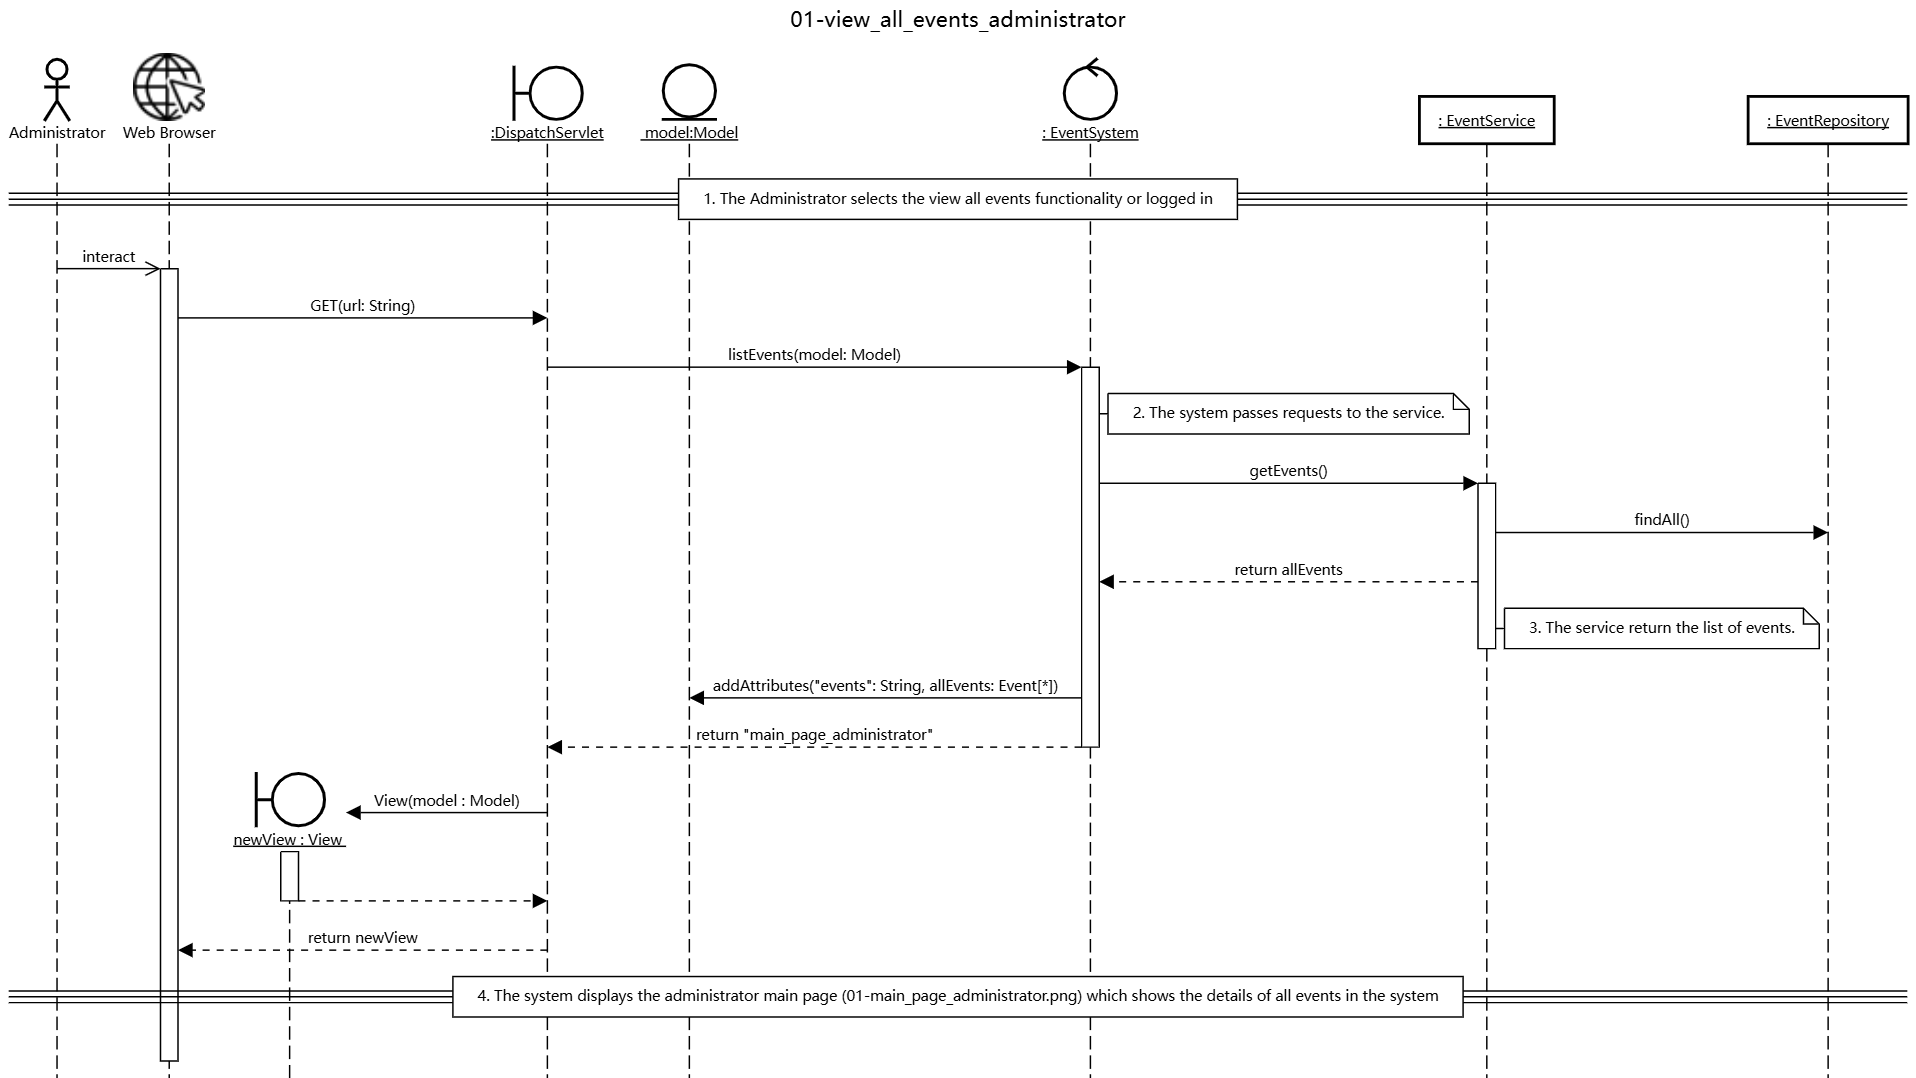
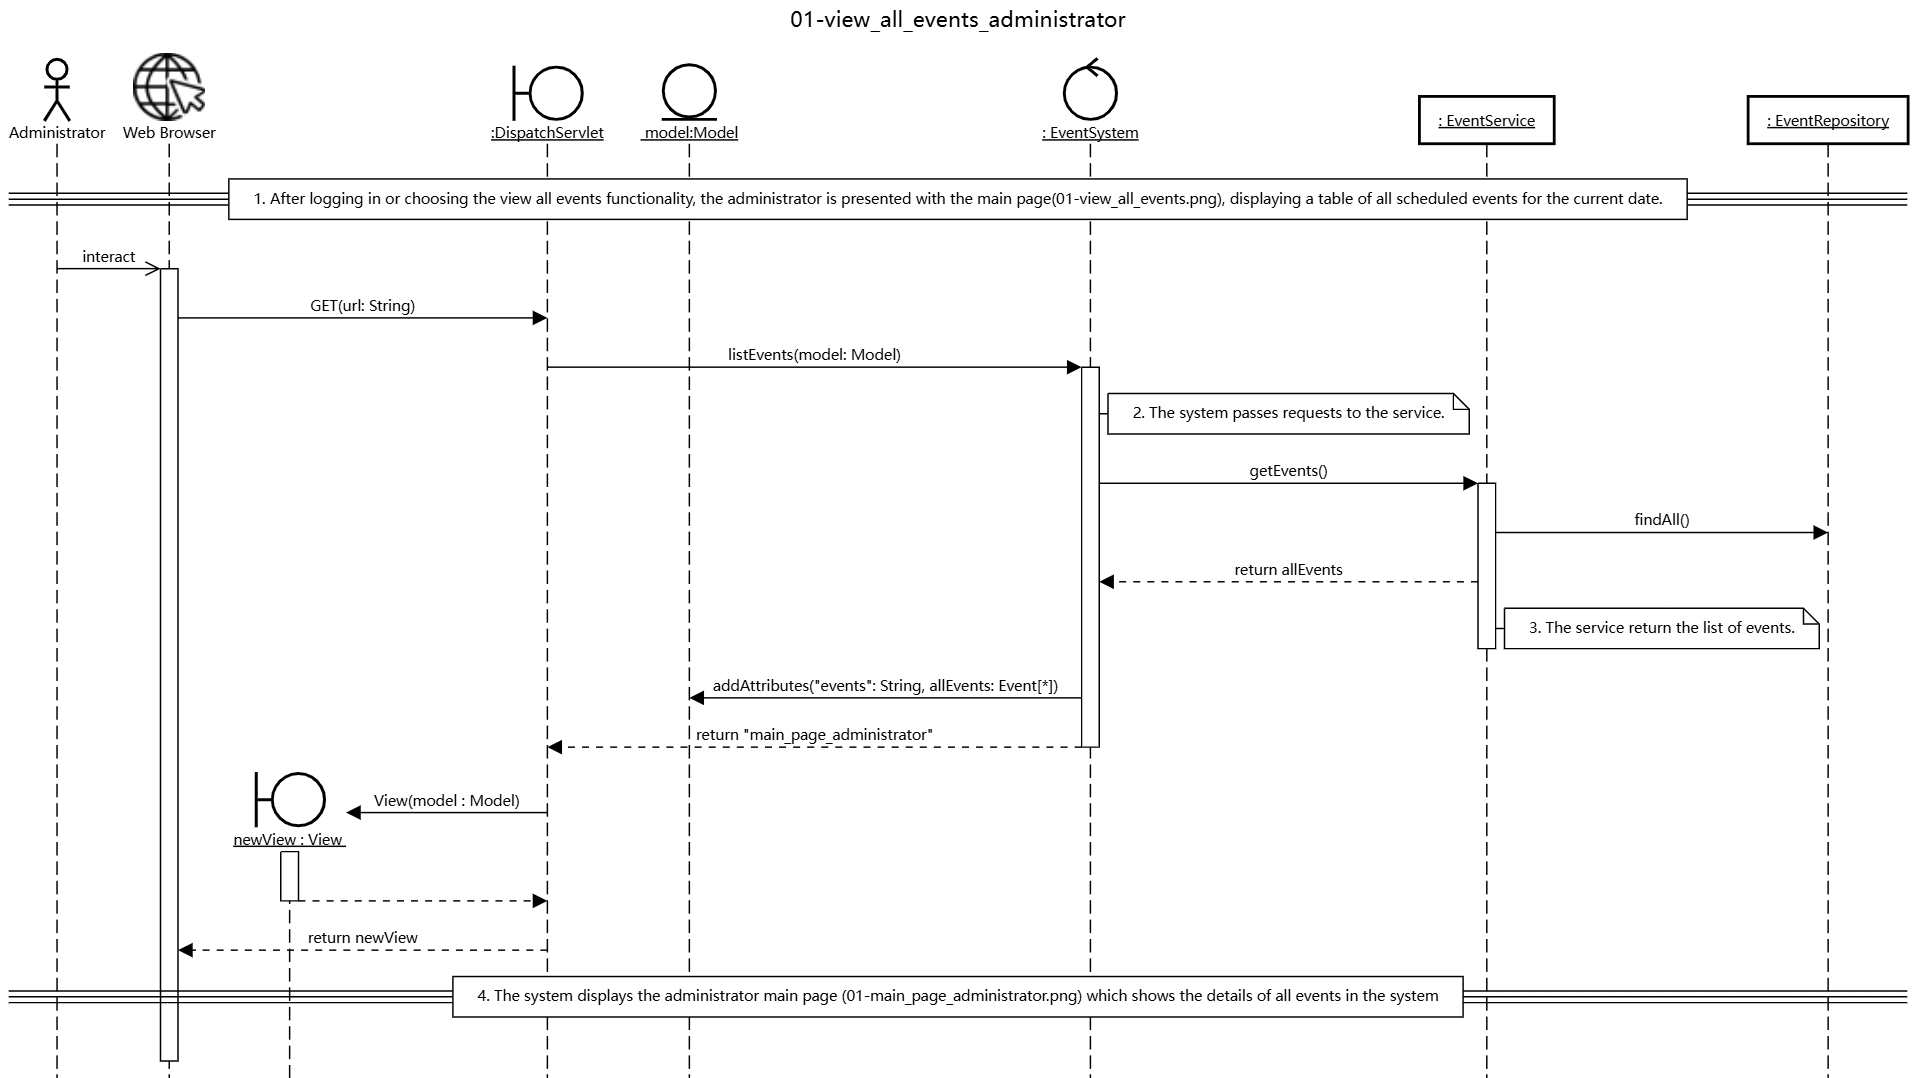
modify md file and use case

Changed region(s): [[0.1232, 0.1531, 0.893, 0.2143]]

diff --git a/03-design/usecases/docs/02-delete_event.md b/03-design/usecases/docs/02-delete_event.md
@@ -4,10 +4,12 @@
 ## Basic Course of Events
 
 ### Course of Events -- Administrator
-- 1. The administrator selects the delete event functionality adjacent to the event they want to remove on the list events page
-- 2. The system asks the administrator to confirm the deletion of the event (03-delete_event.png)
-- 3. The administrator clicks OK
-- 4. The system returns to the list events page (02-view_events_history.png) and the venue is no longer displayed
+- 1. The administrator perfroms the  view all events use case (01-view_all_events)
+- 2. The administrator selects view_event_history use case (20-view_events_history)
+- 3. The administrator selectes the delete functionality of corresponding event
+- 4. The system asks the administrator to confirm(03-delete_event)
+- 5. The administrator selects “Yes”
+- 6. The system returns to the list events page (20-view_events_history.png) and the venue is no longer displayed
 
 
 ### Sequence Diagram
@@ -16,11 +18,12 @@
 
 ### Course of Events -- Organizer
 
-- 1. The organizer selects the delete event functionality adjacent to the event they want to remove on the list events page
-- 2. The system asks the organizer to confirm the deletion of the event (03-delete_event.png)
-- 3. The organizer clicks OK
-- 4. The system returns to the list events page (02-view_events_history.png) and the venue is no longer displayed
-
+- 1. The organizer perfroms the  view all events use case (21-view_my_events)
+- 2. The organizer selectes view_event_history use case (20-view_events_history)
+- 3. The organizer selectes the delete functionality of corresponding event
+- 4. The system asks the organizer to confirm(03-delete_event)
+- 5. The organizer selectes “Yes”
+- 6. The system returns to the view events page (20-view_events_history.png) and the venue is no longer displayed
 ### Sequence Diagram
 ![Delete Event_Organizer](/02-analysis/sequence-diagrams/Common/02-delete_event_organizer.png)
  
@@ -28,10 +31,10 @@
 
 #### Do Not Delete
 
-- 1.The Administrator(organizer) selects the delete event functionality adjacent to the event they want to remove on the list events page
+- 1.The Administrator(organizer) selects the delete event functionality adjacent to the event they want to remove on the list events page 
 - 2.The system asks the Administrator(organizer) to confirm the deletion of the event (03-delete_event.png)
 - 3.The Admistrator(organizer) clicks No
-- 4.The system returns to the list events page (18-list_my_event.png) with no changes
+- 4.The system returns to the list events page (20-view_events_history.png) with no changes
 
 
 ### Sequence Diagram -- Alternate Course of Events
@@ -40,8 +43,8 @@
 
 ## UI Sketches
 
-- The administrator is on the event history page(02-view_events_history.png).
-- The organizer is on their event page(18-list_my_event.png).
+- The administrator is on the event history page(20-view_events_history.png).
+- The organizer is on their event page(21-view_my_event.png).
 
 ### Administrator
 This is the page that the user must be on at the start to complete the use case.

diff --git a/03-design/usecases/docs/01-view_all_events.md b/03-design/usecases/docs/01-view_all_events.md
@@ -5,7 +5,7 @@
 
 ### Course of Events -- Administrator
 
-1. After logging in, the administrator is presented with the main page(01-view_all_events.png), displaying a table of all scheduled events for the current date.
+1. After logging in or choosing the view all events functionality, the administrator is presented with the main page(01-view_all_events.png), displaying a table of all scheduled events for the current date.
 2. The system passes requests to the service.
 3. The service displays a table showing all events scheduled for the current date.
 4. The administrator can see the following details in the table:
@@ -23,7 +23,7 @@
 
 ### Course of Events -- Organizer
 
-1. After logging in, the organizer is presented with the main page(17-view_all_events.png), displaying a table of all scheduled events for the current date.
+1. After logging in or choosing the view all events functionality, the organizer is presented with the main page(17-view_all_events.png), displaying a table of all scheduled events for the current date.
 2. The system passes requests to the service.
 3. The service displays a table showing all events scheduled for the current date.
 4. The organizer can see the following details in the table:
@@ -41,7 +41,7 @@
  
 ### Course of Events
 
-1. After logging in, the user is presented with the main page(34-view_all_events.png), displaying a table of all scheduled events for the current date.
+1. After logging in or choosing the view all events functionality, the user is presented with the main page(34-view_all_events.png), displaying a table of all scheduled events for the current date.
 2. The system passes requests to the service.
 3. The service displays a table showing all events scheduled for the current date.
 4. The user can see the following details in the table:

diff --git a/03-design/usecases/docs/00-login.md b/03-design/usecases/docs/00-login.md
@@ -21,6 +21,7 @@
 - 3.The user enters their credentials
 - 4.The system informs the user that their combination of email and password was incorrect and returns to the log-in page.
 
+
 ### Sequence Diagram -- Alternate Course of Events
 ![Login](/02-analysis/sequence-diagrams/Common/00-login_alternate_wrong.png)
 
